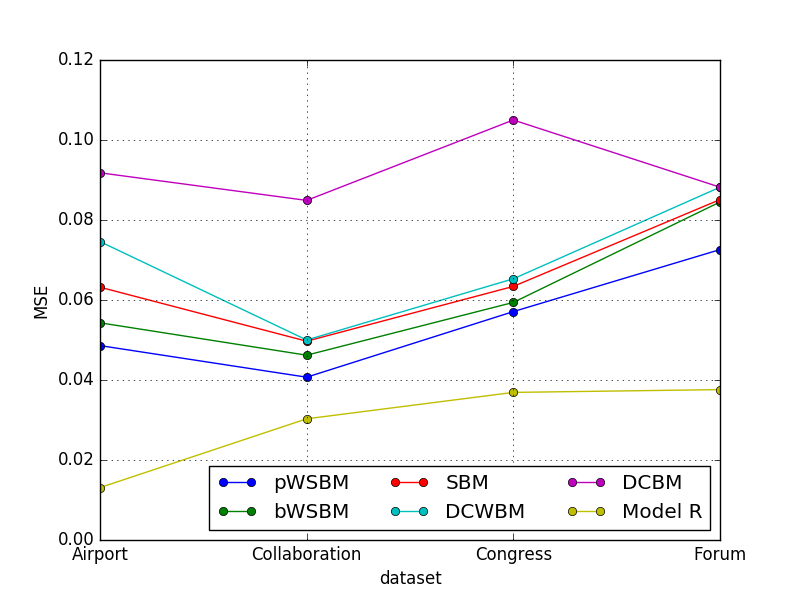
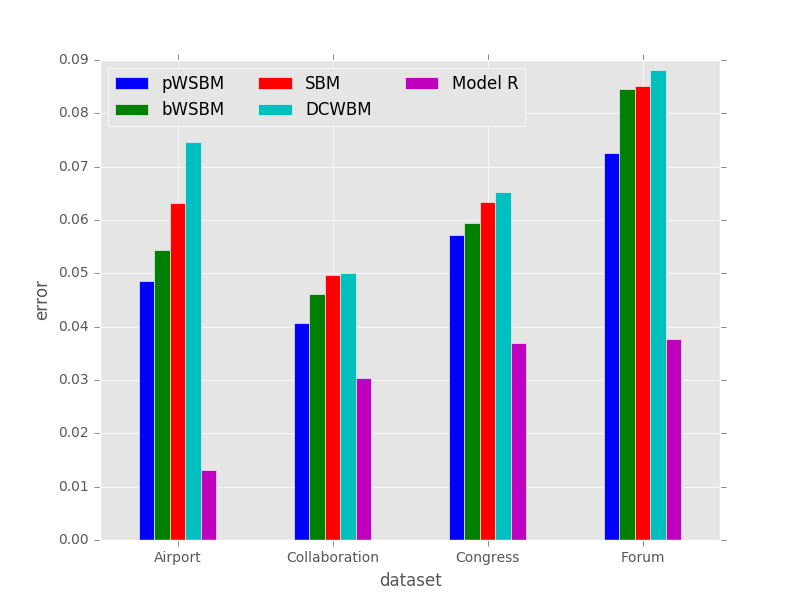
add t-test

diff --git a/ijcnn17.tex b/ijcnn17.tex
@@ -35,8 +35,8 @@ The experiments use 4 datasets summarized in \autoref{tab:datasets}.
 \end{table}
 
 \subsection{Experiment process}
-We do the identical experiment for each dataset.
-All the weights are normalized to ranger [-1, 1] after applying a logarithm function.
+We do the same experiment for each dataset.
+All the link weights are normalized to ranger [-1, 1] after applying a logarithm function.
 Each experiment consists of 25 independent trials.
 In each trial, we split the dataset randomly into 3 subsets:
 \begin{itemize}
@@ -44,20 +44,20 @@ In each trial, we split the dataset randomly into 3 subsets:
 	\item 10\% into validation set
 	\item 20\% into testing set
 \end{itemize}
-We use MSE (mean squared error) as the prediction accuracy metric of a trial.
-For each experiment, we report the mean and standard deviation of the 25 MSE's.
+We use mean squared error as the prediction accuracy metric.
+For each experiment, we report the mean and standard deviation of the errors from 25 trials.
 The pseudo code of the experiment process is as follows:
 
 \begin{lstlisting}
 	def main():
 		for dataset in [Airport, Collaboration, Congress, Forum]:
-			(MSE_mean, MSE_standard_deviation) = do_experiment(dataset)
+			(error_mean, error_standard_deviation) = do_experiment(dataset)
 	def do_experiment(dataset):
-		MSEs = list()
+		errors = list()
 		for trial in range(25):
 			testing_error = append(evaluate_model_on(dataset))
-			MSEs.append(testing_error)
-		return (MSEs.mean(), MSEs.standard_deviation())
+			errors.append(testing_error)
+		return (errors.mean(), errors.standard_deviation())
 	def evaluate_model_on(dataset):
 		(trainning_set, validation_set, testing_set) = split(dataset)
 		while validation_error decreases:
@@ -69,42 +69,88 @@ The pseudo code of the experiment process is as follows:
 
 \subsection{Experiment results}
 In our experiments,
-Model R's prediction error is lower than every other model on every dataset,
+Model R's error is lower than every other model on every dataset,
 shown in \autoref{fig:errors}.
 \begin{figure}[!htb]
 	\centering
 	\includegraphics[width=\textwidth]{link-weight-errors}
 	\caption[content...]{
-		The MSE's of 6 models on 4 datasets:
-		Model R has lower MSE than every other model on every dataset.
+		The mean squared errors of 5 models on 4 datasets:
+		Model R has lower error than every other model on every dataset.
+		Every error value shown here is the mean errors for the 25 trials in the experiment.
 	}
 	\label{fig:errors}
 \end{figure}
-Now we compare Model R with only best baseline model - pWSBM.
-We calculate the error reduction from this best baseline model to Model R as:
+For this section we compare Model R with only the best baseline model - pWSBM, as it outperforms other baseline models on every dataset.
+Given the dataset, we regard ModelRError (or BaselineError) as a random variable so each trial generates an example of it.
+We can do a t-test to justify the significance of difference between the means of variables ModelRError and BaselineError.
+where $ \overline{X} $ is the mean of variable X.
+The mean of a variable is not the same as the mean of a sample of the variable.
+More specifically,
+a variable can generate two samples with different sample means,
+therefore two different sample means does not imply the two variables generating them have different means.
+For each dataset, we do a t-test for the two variables where the null hypothesis is that the two variables have the same mean:
 \begin{align*}
-	Reduction = \frac{BaselineError - ModelRError}{BaselineError}
+\overline{X_1} == \overline{X_2}
 \end{align*}
-The reduction in prediction error is significant:
+where $ X_1 $ and $ X_2 $ are ModelRError and BaselineError.
+The standard deviation $ s $ of variable X is defined as:
+\begin{align*}
+	s_i &= \sqrt{\overline{(X_i - \overline{X_i})^2}}
+\end{align*}
+Welch's t-test defines its statistic t and degrees of freedom v as:
+\begin{align*}
+	t &= \frac{
+		\overline{X_1} - \overline{X_2}
+		}{
+		\sqrt{\frac{s^2_1}{N_1} + \frac{s^2_2}{N_2}}
+		}\\
+	v &= \frac{
+		(\frac{s^2_1}{N_1} + \frac{s^2_2}{N_2})^2
+		}{
+		\frac{s^4_1}{N_1^2(N_1-1)} + \frac{s^4_2}{N_2^2(N_2-1)}
+		}
+\end{align*}
+where $ N_i $ is the sample size of variable $ X_i $.
+The Student's t-distribution defines its probability density function f(x) as:
+\begin{align*}
+f(x) = \frac{\Gamma(\frac{v+1}{2})}{\sqrt{v\pi}\Gamma(\frac{v}{2})}
+((1+\frac{x^2}{v})^{-\frac{v+1}{2}})
+\end{align*}
+Welch's t-test defines its p value as the Student's t-distribution cumulative density function:
+\begin{align*}
+p = 2 \int_{-\infty}^{-|t|} f(x) dx
+\end{align*}
+The smaller p is, the more confidently we can reject the null hypothesis, i.e., accept that:
+\begin{align*}
+\overline{ModelRError} \neq \overline{BaselineError}
+\end{align*}
+Typically there is a domain specific threshold for p, e.g., 0.1 or 0.01. If p is smaller than the threshold we reject the null hypothesis.
+We calculate the p value and also error reduction from baseline to Model R as:
+\begin{align*}
+Reduction = \frac{BaselineError - ModelRError}{BaselineError}
+\end{align*}
+The p value is almost 0 for all datasets and error reduction is significant:
 ranging from 25\% on Collaboration dataset to 73\% on Airport dataset,
 shown in \autoref{tab:errors}.
 \begin{table}[!htb]
 	\centering
 	\caption{
-		The MSE's of 6 models on 4 datasets:
+		The mean squared errors of 5 models on 4 datasets:
 		Model R has lower error than every other model on every dataset,
 		reducing error by 25\% to 73\% from the best baseline model - pWSBM.
-		The number in every parenthesis is the standard deviation of MSE in 25 trials in the last digit of MSE.
+		The number in every parenthesis is the standard deviation of error in 25 trials in the last digit of error. The very low p values strongly indicate the error reduction is significant.
 	}
 	\begin{tabularx}{\textwidth}{|X|c|c|c|c|c|c|c|} \hline \rowcolor{blue!50}
-		Dataset & pWSBM & bWSBM & SBM & DCWBM & DCBM & Model R & Reduction \\ \hline
-		Airport & 0.0486(6) & 0.0543(5) & 0.0632(8) & 0.0746(9) & 0.0918(8) & 0.013(1) & 73\% \\ \hline
-		Collaboration & 0.0407(1) & 0.0462(1) & 0.0497(3) & 0.0500(2) & 0.0849(3) & 0.030(1) & 25\% \\ \hline
-		Congress & 0.0571(4) & 0.0594(4) & 0.0634(6) & 0.0653(4) & 0.1050(6) & 0.036(3) & 35\% \\ \hline
-		Forum & 0.0726(3) & 0.0845(3) & 0.0851(4) & 0.0882(4) & 0.0882(4) & 0.037(1) & 48\% \\ \hline
+		Dataset & pWSBM & bWSBM & SBM & DCWBM & Model R & Reduction & p \\ \hline
+		Airport & 0.0486(6) & 0.0543(5) & 0.0632(8) & 0.0746(9) & 0.013(1) & 73\% & 4.2e-66 \\ \hline
+		Collaboration & 0.0407(1) & 0.0462(1) & 0.0497(3) & 0.0500(2) & 0.030(1) & 25\% & 9.1e-44 \\ \hline
+		Congress & 0.0571(4) & 0.0594(4) & 0.0634(6) & 0.0653(4) & 0.036(3) & 35\% & 7.1e-35 \\ \hline
+		Forum & 0.0726(3) & 0.0845(3) & 0.0851(4) & 0.0882(4) & 0.037(1) & 48\% & 4.2e-68 \\ \hline
 	\end{tabularx}
 	\label{tab:errors}
 \end{table}
+These results show that Model R outperforms pWSBM on all these datasets.
 
 \subsection{Computing resources}
 We ran our experiments on a Lenovo ThinkCentre M83 machine with the following specifications:
